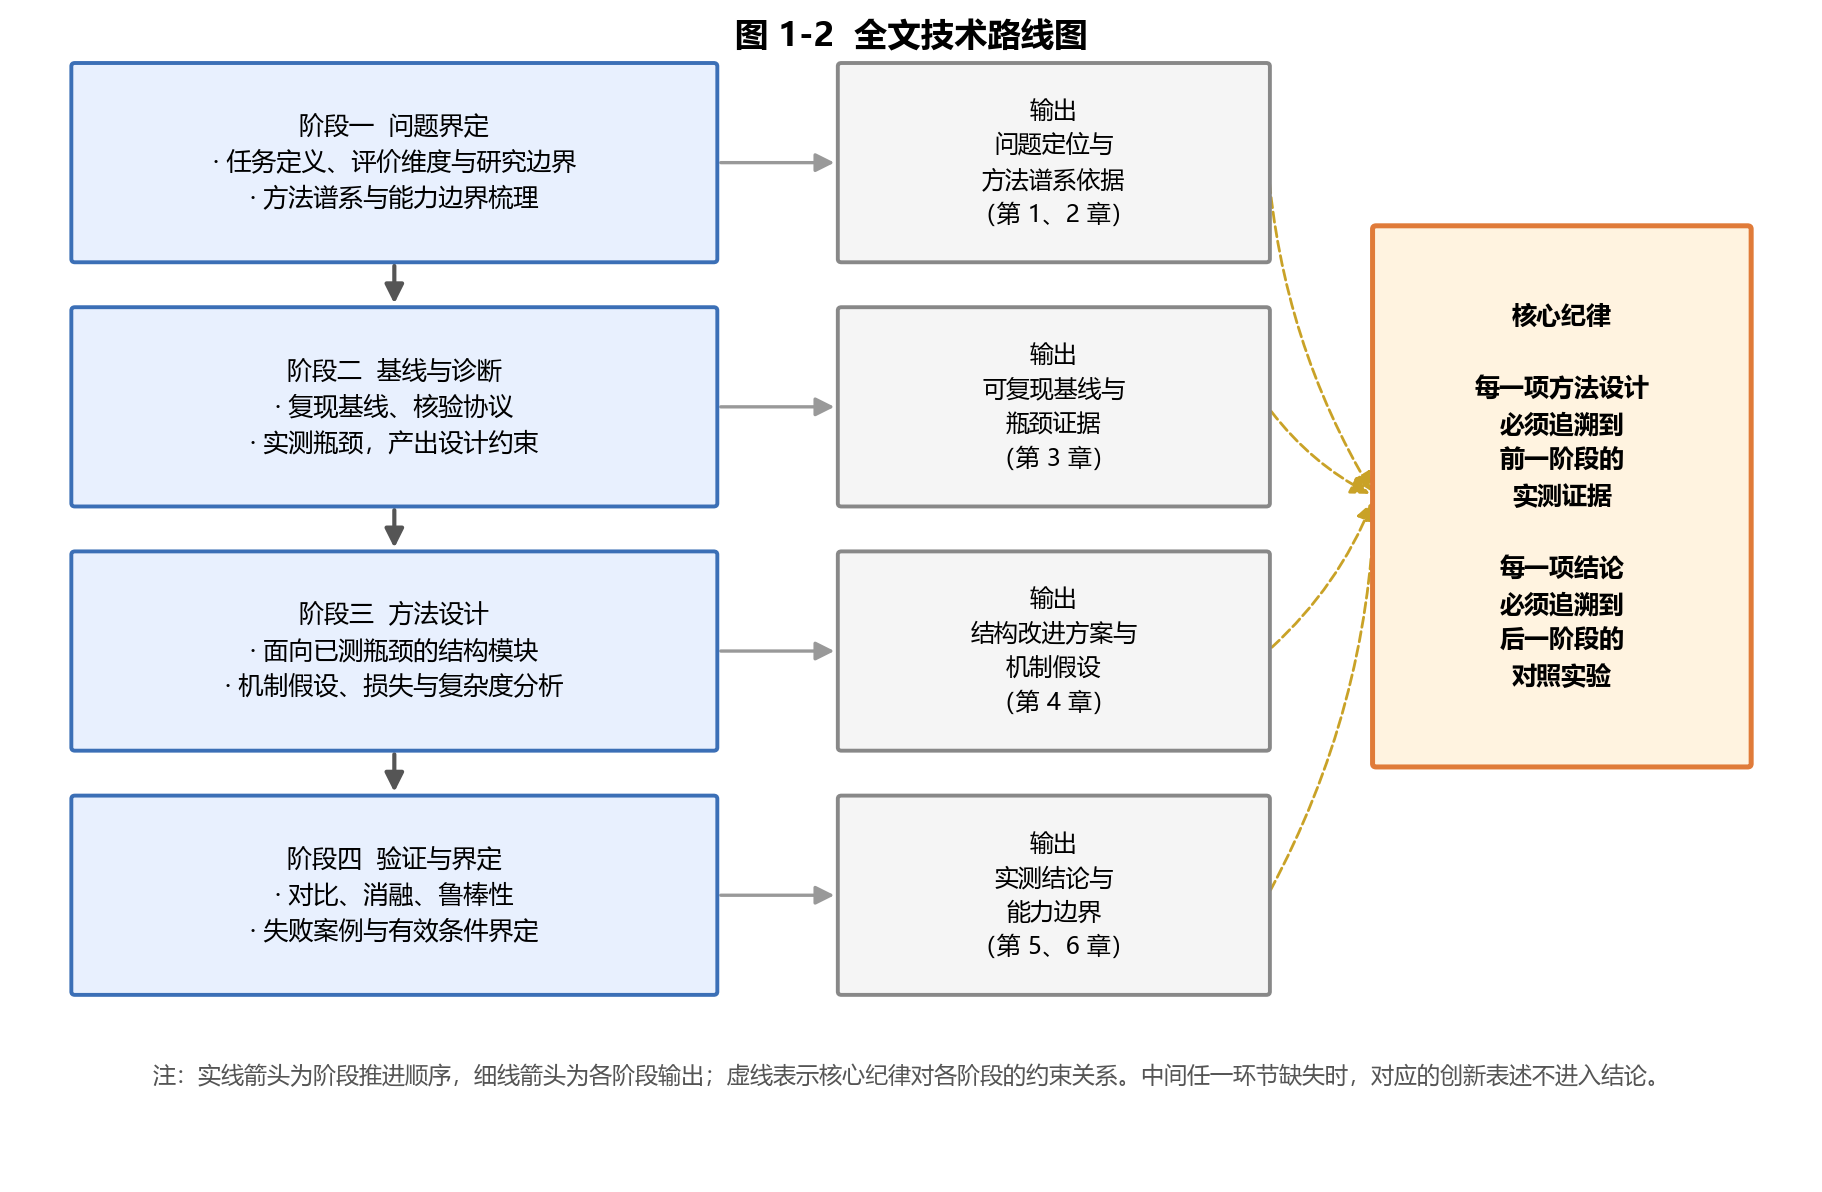
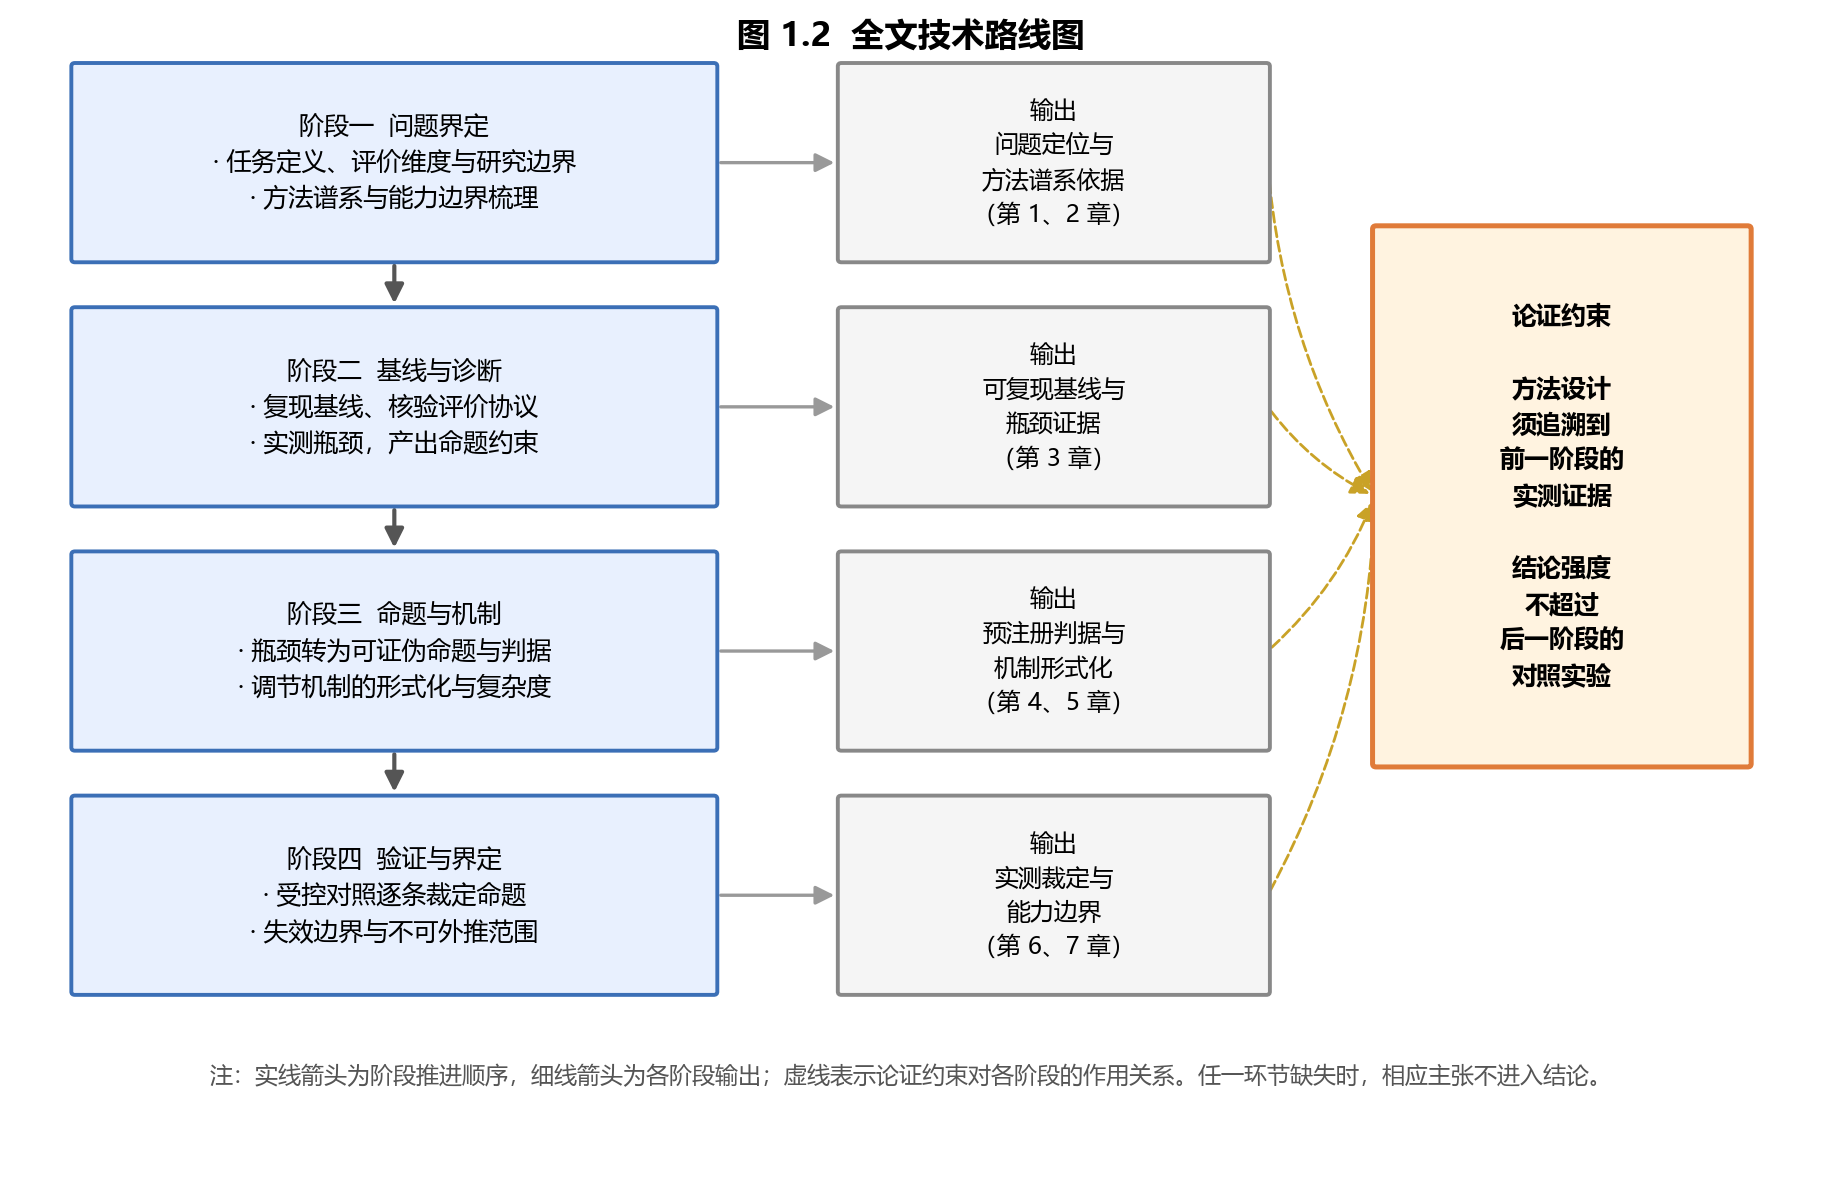
figures: redraw Fig 1.2 and 1.3 for the seven-chapter structure
Both schematics were still drawn against the abandoned six-chapter outline, so
the text inside the images contradicted the manuscript. Verified by reading the
rendered PNGs, not just the code: Fig 1.2 said the method-design stage produces
"structural modules (Chapter 4)" and that validation lands in "Chapters 5, 6",
while Fig 1.3 drew only six boxes and ended at "Chapter 6 Summary".

Fig 1.2 (technical roadmap):
- stage three renamed from "方法设计 / 面向已测瓶颈的结构模块" to
  "命题与机制 / 瓶颈转为可证伪命题与判据 + 调节机制的形式化与复杂度";
- outputs renumbered to Chapters 4-5 (preregistered criteria and mechanism
  formalisation) and Chapters 6-7 (verdicts and capability boundary);
- the "核心纪律" box became "论证约束" and now states that method design must
  trace back to measured evidence and that claim strength must not exceed the
  controlled experiment — an argument rather than a project rule.

Fig 1.3 (chapter map):
- redrawn with seven boxes: the former single method chapter is split into
  Chapter 4 (falsifiable propositions and preregistered criteria) and Chapter 5
  (mechanism formalisation, algorithm, complexity), with the experiment chapter
  moving to 6 and the conclusion to 7;
- the highlight now marks the method core, and the caption explains why the
  三章 sequence forms a chain that cannot be adjusted after the fact;
- the yellow dashed edge now denotes criteria constraining the verdict, instead
  of the old "results feed back into method design" arrow, which contradicted
  preregistration.
[…]

diff --git a/scripts/make_schematic_figures.py b/scripts/make_schematic_figures.py
@@ -74,9 +74,9 @@ def fig_1_2_roadmap():
 
     stages = [
         (0.3, 5.6, "阶段一  问题界定\n· 任务定义、评价维度与研究边界\n· 方法谱系与能力边界梳理"),
-        (0.3, 4.1, "阶段二  基线与诊断\n· 复现基线、核验协议\n· 实测瓶颈，产出设计约束"),
-        (0.3, 2.6, "阶段三  方法设计\n· 面向已测瓶颈的结构模块\n· 机制假设、损失与复杂度分析"),
-        (0.3, 1.1, "阶段四  验证与界定\n· 对比、消融、鲁棒性\n· 失败案例与有效条件界定"),
+        (0.3, 4.1, "阶段二  基线与诊断\n· 复现基线、核验评价协议\n· 实测瓶颈，产出命题约束"),
+        (0.3, 2.6, "阶段三  命题与机制\n· 瓶颈转为可证伪命题与判据\n· 调节机制的形式化与复杂度"),
+        (0.3, 1.1, "阶段四  验证与界定\n· 受控对照逐条裁定命题\n· 失效边界与不可外推范围"),
     ]
     for x, y, t in stages:
         box(ax, x, y, 3.6, 1.2, t, fs=9)
@@ -86,8 +86,8 @@ def fig_1_2_roadmap():
     outs = [
         (4.6, 5.6, "输出\n问题定位与\n方法谱系依据\n（第 1、2 章）"),
         (4.6, 4.1, "输出\n可复现基线与\n瓶颈证据\n（第 3 章）"),
-        (4.6, 2.6, "输出\n结构改进方案与\n机制假设\n（第 4 章）"),
-        (4.6, 1.1, "输出\n实测结论与\n能力边界\n（第 5、6 章）"),
+        (4.6, 2.6, "输出\n预注册判据与\n机制形式化\n（第 4、5 章）"),
+        (4.6, 1.1, "输出\n实测裁定与\n能力边界\n（第 6、7 章）"),
     ]
     for x, y, t in outs:
         box(ax, x, y, 2.4, 1.2, t, fc=C_GRAY, ec="#888", fs=8.6)
@@ -95,21 +95,23 @@ def fig_1_2_roadmap():
         arrow(ax, (3.9, y + 0.6), (4.6, y + 0.6), color="#999", lw=1.2)
 
     box(ax, 7.6, 2.5, 2.1, 3.3,
-        "核心纪律\n\n每一项方法设计\n必须追溯到\n前一阶段的\n实测证据\n\n每一项结论\n必须追溯到\n后一阶段的\n对照实验",
+        "论证约束\n\n方法设计\n须追溯到\n前一阶段的\n实测证据\n\n结论强度\n不超过\n后一阶段的\n对照实验",
         fc=C_HL, ec=C_HLE, fs=9.0, lw=1.8, bold=True)
     for _, y, _ in stages:
         arrow(ax, (7.0, y + 0.6), (7.6, 4.15), color="#C9A227", lw=1.0, ls="--", rad=0.12)
 
-    ax.text(5.0, 6.92, "图 1-2  全文技术路线图", ha="center", fontsize=12, fontweight="bold")
+    ax.text(5.0, 6.92, "图 1.2  全文技术路线图", ha="center", fontsize=12, fontweight="bold")
     ax.text(5.0, 0.55,
-            "注：实线箭头为阶段推进顺序，细线箭头为各阶段输出；虚线表示核心纪律对各阶段的约束关系。"
-            "中间任一环节缺失时，对应的创新表述不进入结论。",
+            "注：实线箭头为阶段推进顺序，细线箭头为各阶段输出；虚线表示论证约束对各阶段的作用关系。"
+            "任一环节缺失时，相应主张不进入结论。",
             ha="center", fontsize=8.3, color="#555")
     save(fig, "F1_2_technical_roadmap",
-         {"figure_id": "1-2", "caption": "全文技术路线图", "type": "schematic",
+         {"figure_id": "1.2", "caption": "全文技术路线图", "type": "schematic",
           "chapter": "1.4.4", "n_stages": 4,
-          "revision": "对齐 THESIS_OUTLINE 六章版：移除旧七章体系的研究假设 H1–H5 与 GAAW(M1) 主创新表述，"
-                      "核心问题框改为可追溯性纪律"})
+          "revision": "2026-08-15 对齐七章结构：阶段三由「结构模块」改为「命题与机制」，"
+                      "输出章号改为第 4、5 章与第 6、7 章；"
+                      "「核心纪律」改写为「论证约束」（去项目管理口吻）；"
+                      "图题编号改为点号（FORMAT_TONGJI §2.2）"})
 
 
 # ============================================================
@@ -433,47 +435,52 @@ def fig_1_1_task_illustration():
 
 
 # ============================================================
-# 图 1-3 研究内容与章节关系图
+# 图 1.3 研究内容与章节关系图
 # ============================================================
 def fig_1_3_chapter_map():
-    fig, ax = plt.subplots(figsize=(12.0, 7.0))
-    ax.set_xlim(0, 12); ax.set_ylim(0, 7); ax.axis("off")
+    fig, ax = plt.subplots(figsize=(12.0, 7.4))
+    ax.set_xlim(0, 12); ax.set_ylim(0, 7.4); ax.axis("off")
 
     chaps = [
-        (0.35, 5.30, 3.1, 1.15, "第 1 章  绪论\n问题定位与研究边界", C_BOX, C_EDGE),
-        (0.35, 3.70, 3.1, 1.15, "第 2 章  相关理论与研究进展\n方法谱系与可追溯依据", C_BOX, C_EDGE),
-        (4.45, 4.50, 3.1, 1.15, "第 3 章  基线复现与瓶颈诊断\n协议核验与实测瓶颈", C_HL, C_HLE),
-        (4.45, 2.60, 3.1, 1.15, "第 4 章  改进的上采样网络\n结构级改进与机制假设", C_HL, C_HLE),
-        (8.55, 3.55, 3.1, 1.15, "第 5 章  实验结果与分析\n对比、消融、鲁棒性、失败案例", C_BOX, C_EDGE),
-        (8.55, 1.30, 3.1, 1.15, "第 6 章  总结与展望\n已被支持的结论与局限", C_GRAY, "#888"),
+        (0.35, 5.70, 3.1, 1.10, "第 1 章  绪论\n问题定位与研究边界", C_BOX, C_EDGE),
+        (0.35, 4.20, 3.1, 1.10, "第 2 章  文献综述\n方法谱系与研究缺口", C_BOX, C_EDGE),
+        (0.35, 2.70, 3.1, 1.10, "第 3 章  基线复现与瓶颈诊断\n协议核验与实测瓶颈", C_BOX, C_EDGE),
+        (4.45, 5.00, 3.1, 1.10, "第 4 章  模型假设与研究设计\n可证伪命题与预注册判据", C_HL, C_HLE),
+        (4.45, 3.20, 3.1, 1.10, "第 5 章  梯度自适应对抗权重机制\n形式化、算法与复杂度", C_HL, C_HLE),
+        (8.55, 4.10, 3.1, 1.10, "第 6 章  实验结果与边界分析\n逐条裁定、失效边界", C_BOX, C_EDGE),
+        (8.55, 1.90, 3.1, 1.10, "第 7 章  结论与展望\n获支持的结论与局限", C_GRAY, "#888"),
     ]
     for x, y, w, h, t, fc, ec in chaps:
-        box(ax, x, y, w, h, t, fc=fc, ec=ec, fs=9.2, lw=1.8 if fc == C_HL else 1.4,
+        box(ax, x, y, w, h, t, fc=fc, ec=ec, fs=9.0, lw=1.8 if fc == C_HL else 1.4,
             bold=(fc == C_HL))
 
-    # 主链：1 -> 2 -> 3 -> 4 -> 5 -> 6
-    arrow(ax, (1.90, 5.30), (1.90, 4.85), lw=1.6)
-    arrow(ax, (3.45, 4.28), (4.45, 5.08), lw=1.6)
-    arrow(ax, (6.00, 4.50), (6.00, 3.75), lw=1.6)
-    arrow(ax, (7.55, 3.18), (8.55, 4.13), lw=1.6)
-    arrow(ax, (10.10, 3.55), (10.10, 2.45), lw=1.6)
+    # 主链：1 -> 2 -> 3 -> 4 -> 5 -> 6 -> 7
+    arrow(ax, (1.90, 5.70), (1.90, 5.30), lw=1.6)
+    arrow(ax, (1.90, 4.20), (1.90, 3.80), lw=1.6)
+    arrow(ax, (3.45, 3.25), (4.45, 5.20), lw=1.6, rad=0.10)
+    arrow(ax, (6.00, 5.00), (6.00, 4.30), lw=1.6)
+    arrow(ax, (7.55, 3.75), (8.55, 4.45), lw=1.6)
+    arrow(ax, (10.10, 4.10), (10.10, 3.00), lw=1.6)
 
-    # 支撑与回流关系
-    arrow(ax, (3.45, 5.88), (8.55, 4.55), color="#999", lw=1.1, ls="--", rad=-0.16)
-    arrow(ax, (7.55, 5.08), (8.55, 4.60), color="#999", lw=1.1, ls="--")
-    arrow(ax, (8.55, 3.90), (7.55, 3.30), color="#C9A227", lw=1.3, ls="--", rad=0.18)
+    # 支撑与约束关系
+    arrow(ax, (3.45, 6.25), (8.55, 4.85), color="#999", lw=1.1, ls="--", rad=-0.18)
+    arrow(ax, (7.55, 5.55), (8.55, 4.90), color="#C9A227", lw=1.3, ls="--")
 
-    ax.text(6.0, 6.72, "图 1-3  研究内容与章节关系图", ha="center", fontsize=12.5,
+    ax.text(6.0, 7.10, "图 1.3  研究内容与章节关系图", ha="center", fontsize=12.5,
             fontweight="bold")
-    ax.text(0.35, 2.55, "实线：研究内容的推进顺序\n虚线（灰）：依据支撑关系\n虚线（黄）：实测结果对方法定型的反馈",
+    ax.text(0.35, 1.75,
+            "实线：论证的推进顺序\n虚线（灰）：理论依据的支撑关系\n虚线（黄）：判据对裁定的约束关系",
             fontsize=9.0, color="#555", va="top", linespacing=1.9)
     ax.text(6.0, 0.42,
-            "注：高亮框为本文的两项核心工作章节；第 4 章的结构改进以第 3 章的实测瓶颈为设计约束，"
-            "其最终形式由第 5 章的消融结果确定。",
+            "注：高亮框为本文的方法主体。第 4 章在观察结果之前固定判据，第 5 章给出被检验的机制本体，"
+            "第 6 章按该判据原样裁定，三者共同构成不可事后调整的论证链条。",
             ha="center", fontsize=8.4, color="#555")
     save(fig, "F1_3_chapter_map",
-         {"figure_id": "1-3", "caption": "研究内容与章节关系图", "type": "schematic",
-          "chapter": "1.6", "n_chapters": 6})
+         {"figure_id": "1.3", "caption": "研究内容与章节关系图", "type": "schematic",
+          "chapter": "1.6", "n_chapters": 7,
+          "revision": "2026-08-15 由六章改为七章结构：拆出第 4 章（命题与判据）与"
+                      "第 5 章（机制形式化），实验章顺延为第 6 章、结论章为第 7 章；"
+                      "图题编号改为点号（FORMAT_TONGJI §2.2）"})
 
 
 # ============================================================
